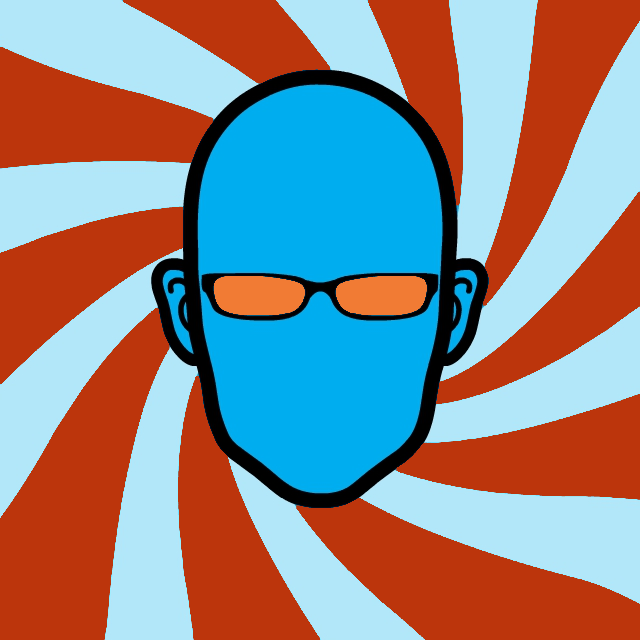
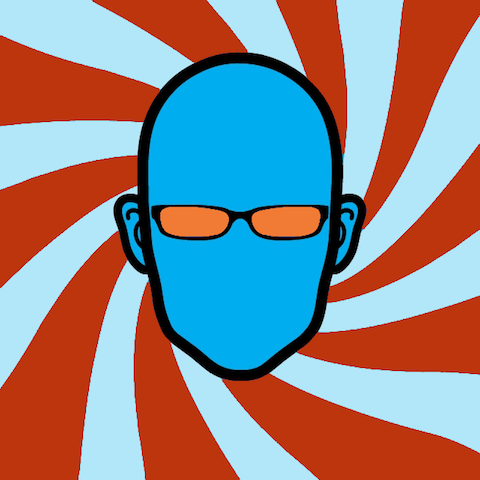
resizes image and changes colours :floppy_disk:

diff --git a/_includes/header.html b/_includes/header.html
@@ -3,7 +3,7 @@
         <div class="container">
             <div class="row">
                 <div class="col-lg-12">
-                    <img class="img-responsive" src="img/profile.png" alt="">
+                    <img class="img-responsive img-circle" src="img/profile.png" alt="">
                     <div class="intro-text">
                         <span class="name">{{ site.title }}</span>
                         <hr class="star-light">
